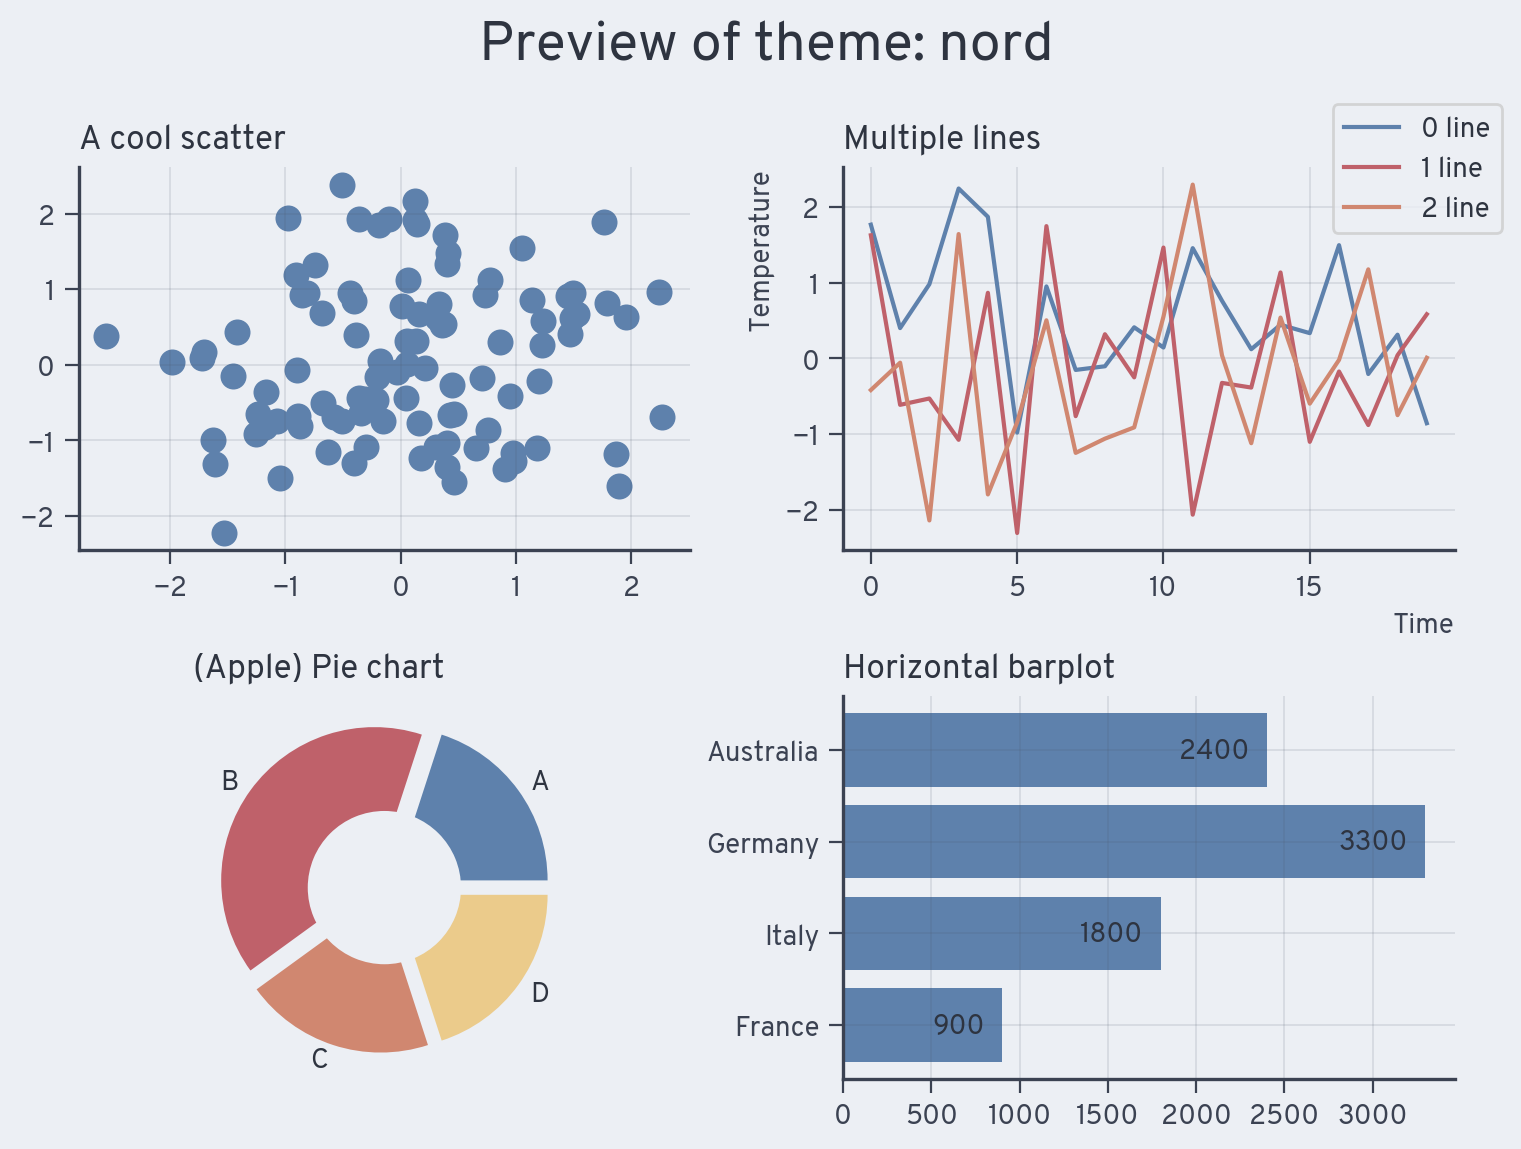
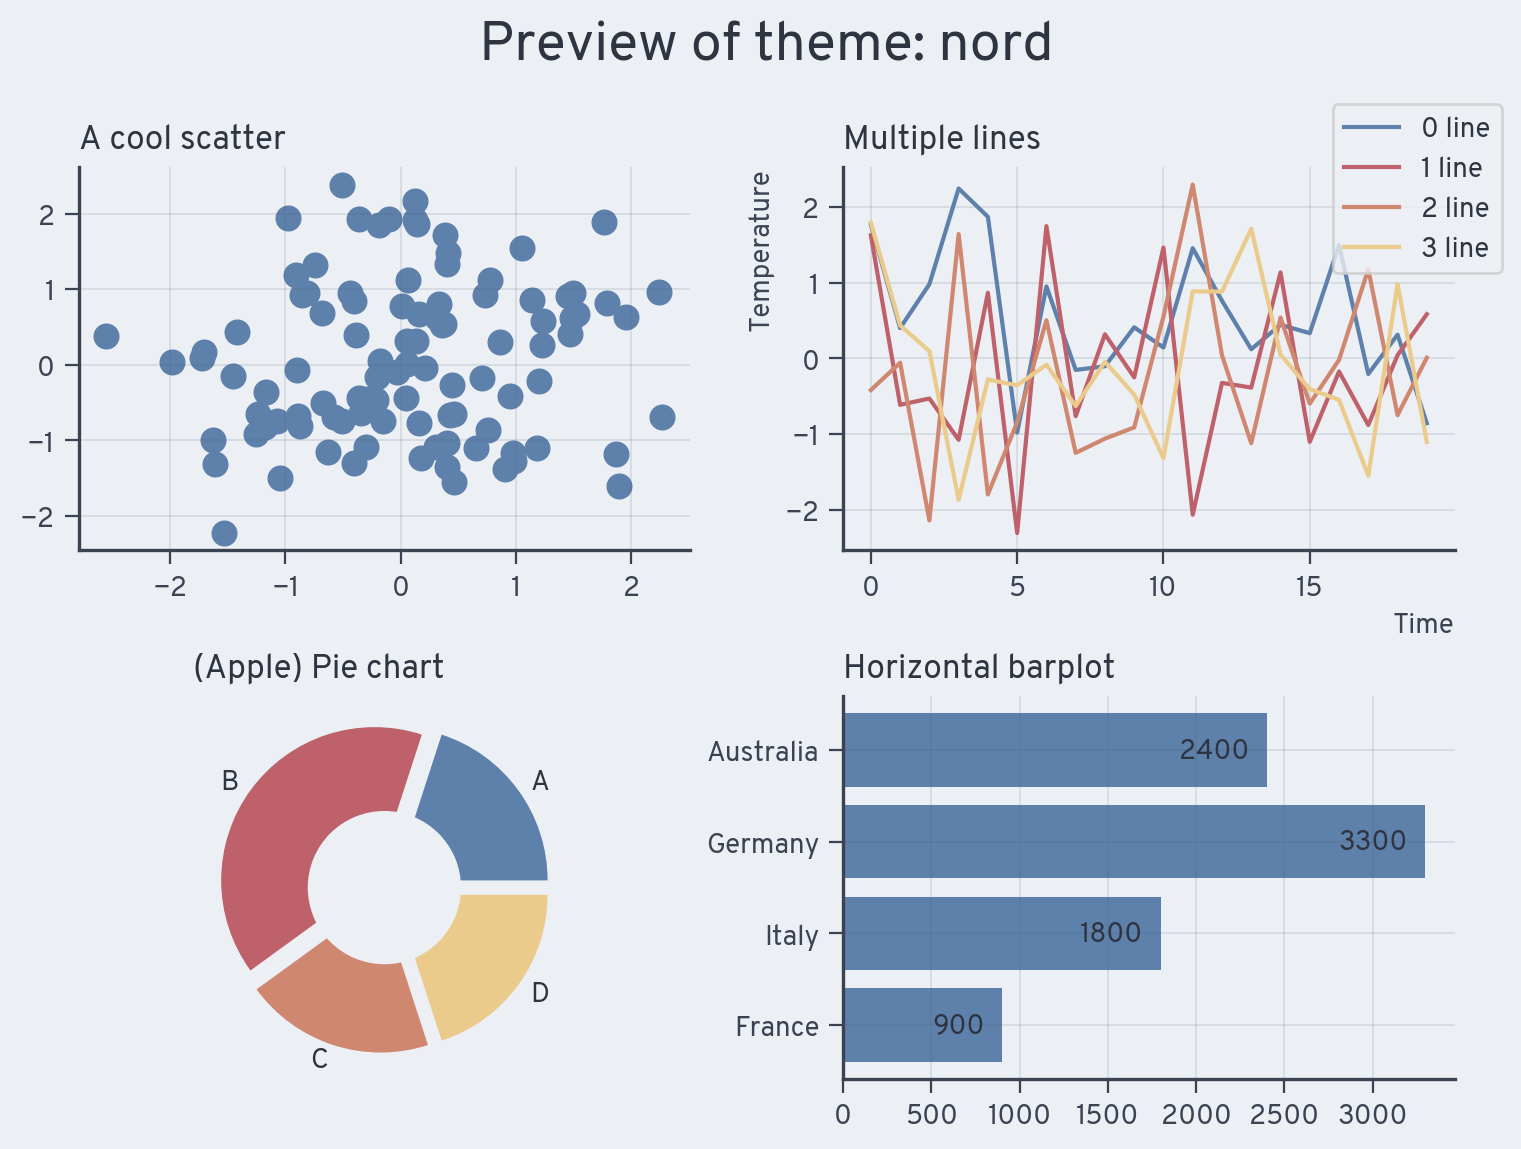
new dark theme

diff --git a/morethemes/themes.py b/morethemes/themes.py
@@ -571,6 +571,42 @@ lumen_theme = {
     },
 }
 
+ebonis_theme = {
+    "name": "ebonis",
+    "description": "Color-blind-friendly dark theme with high contrast and soft tones for dark backgrounds.",
+    "theme": {
+        "font.family": _set_family("Bricolage Grotesque"),
+        "axes.spines.top": False,
+        "axes.spines.right": False,
+        "xtick.minor.visible": False,
+        "ytick.minor.visible": False,
+        "xtick.major.size": 5,
+        "ytick.major.size": 5,
+        "axes.grid": False,
+        "axes.linewidth": 1.2,
+        "text.color": "#EEEEEE",
+        "axes.edgecolor": "#EEEEEE",
+        "axes.labelcolor": "#EEEEEE",
+        "xtick.color": "#EEEEEE",
+        "ytick.color": "#EEEEEE",
+        "axes.facecolor": "#1C1C1C",
+        "figure.facecolor": "#1C1C1C",
+        "lines.linewidth": 2,
+        "axes.prop_cycle": cycler(
+            "color",
+            [
+                "#E69F00",
+                "#56B4E9",
+                "#0072B2",
+                "#F0E442",
+                "#CC79A7",
+                "#D55E00",
+                "#009E73",
+            ],
+        ),
+    },
+}
+
 
 ALL_THEMES = {
     "wsj": wsj_theme,
@@ -588,4 +624,5 @@ ALL_THEMES = {
     "yellowish": yellowish_theme,
     "monoblue": monoblue_theme,
     "lumen": lumen_theme,
+    "ebonis": ebonis_theme,
 }

diff --git a/morethemes/preview.py b/morethemes/preview.py
@@ -19,7 +19,7 @@ def preview_theme(theme=None) -> Figure:
         x=0, y=1.05, s="A cool scatter", transform=axs[0, 0].transAxes, size=12
     )
 
-    for i in range(3):
+    for i in range(4):
         np.random.seed(i)
         axs[0, 1].plot(list(range(20)), np.random.normal(size=20), label=f"{i} line")
     axs[0, 1].legend(loc="upper right", bbox_to_anchor=(1.1, 1.2))

diff --git a/tests/test_main.py b/tests/test_main.py
@@ -1,3 +1,4 @@
+from matplotlib.figure import Figure
 import matplotlib as mpl
 import matplotlib.pyplot as plt
 import pytest
@@ -42,4 +43,4 @@ def test_set_theme_default():
 def test_preview_theme():
     """Check that preview theme works"""
     fig = mt.preview_theme("ft")
-    assert isinstance(fig, mpl.figure.Figure)
+    assert isinstance(fig, Figure)

diff --git a/README.md b/README.md
@@ -32,7 +32,7 @@ function.
 
 ## Themes
 
-**`morethemes`** offers 14 themes at the moment:
+**`morethemes`** offers 16 themes at the moment:
 
 ### WSJ
 
@@ -159,3 +159,21 @@ mt.set_theme("monoblue")
 ```
 
 [![](https://raw.githubusercontent.com/y-sunflower/morethemes/refs/heads/main/docs/img/monoblue.png)](https://y-sunflower.github.io/morethemes/)
+
+### LUMEN
+
+``` python
+import morethemes as mt
+mt.set_theme("lumen")
+```
+
+[![](https://raw.githubusercontent.com/y-sunflower/morethemes/refs/heads/main/docs/img/lumen.png)](https://y-sunflower.github.io/morethemes/)
+
+### EBONIS
+
+``` python
+import morethemes as mt
+mt.set_theme("ebonis")
+```
+
+[![](https://raw.githubusercontent.com/y-sunflower/morethemes/refs/heads/main/docs/img/ebonis.png)](https://y-sunflower.github.io/morethemes/)

diff --git a/docs/index.md b/docs/index.md
@@ -16,7 +16,7 @@ line of code.
 
 ## Themes
 
-**`morethemes`** offers 14 themes at the moment:
+**`morethemes`** offers 16 themes at the moment:
 
 === "WSJ"
 
@@ -171,6 +171,28 @@ line of code.
     ```
 
     A high-contrast theme using shades of blue to emphasize data trends and maintain a clean, professional aesthetic.
+
+=== "LUMEN"
+
+    ![](img/lumen.png)
+
+    ```python
+    import morethemes as mt
+    mt.set_theme("lumen")
+    ```
+
+    Color-blind-friendly light theme with clear colors and soft background.
+
+=== "EBONIS"
+
+    ![](img/ebonis.png)
+
+    ```python
+    import morethemes as mt
+    mt.set_theme("ebonis")
+    ```
+
+    Color-blind-friendly dark theme with high contrast and soft tones for dark backgrounds.
 
 <br>
 
